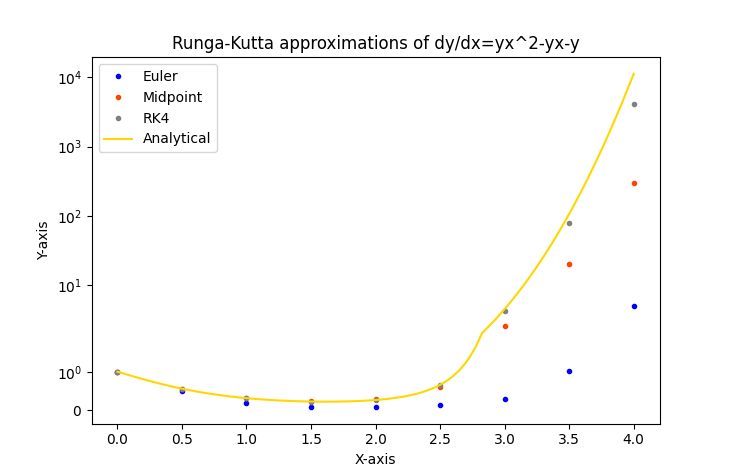
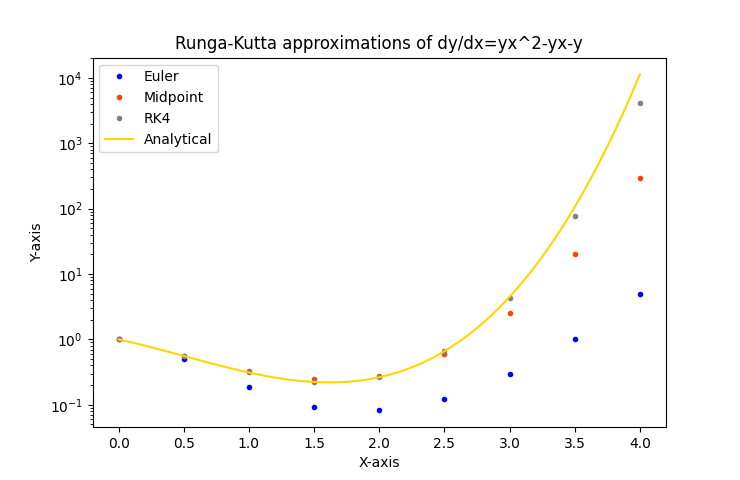
Better python image

diff --git a/lab3/lab3Ty.py b/lab3/lab3Ty.py
@@ -102,7 +102,7 @@ plt.plot(t, yMidpoint, '.', c="orangered", label="Midpoint")
 plt.plot(t, yRK4, '.', c="gray", label="RK4")
 tBig = np.linspace(t0, tf, 1001)
 plt.plot(tBig, np.e**(tBig**3/3-tBig**2/2-tBig), c="gold", label="Analytical")
-plt.yscale("symlog")
+plt.yscale("log")
 plt.ylabel("Y-axis")
 plt.xlabel("X-axis")
 plt.legend()
